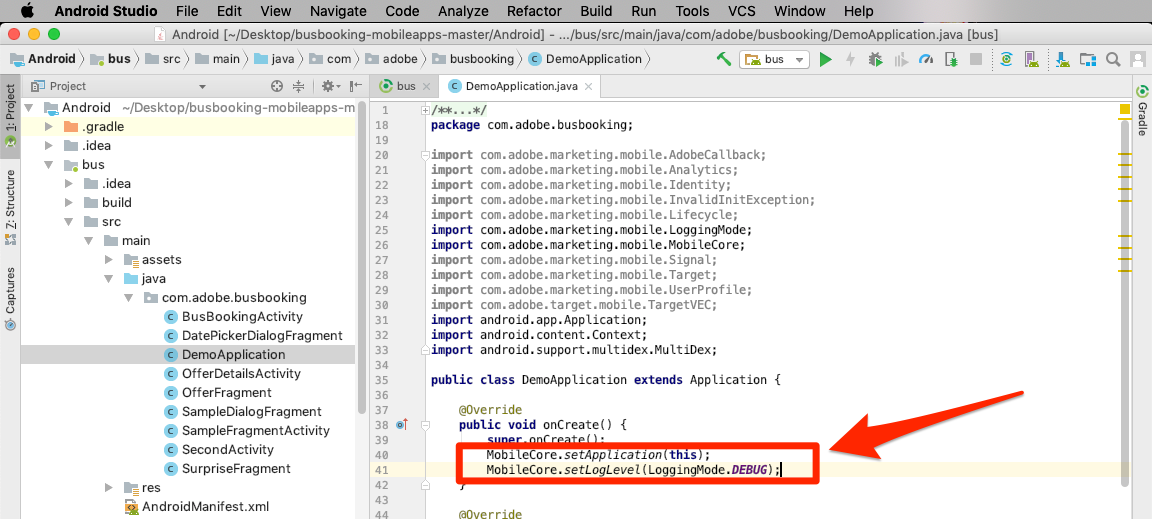
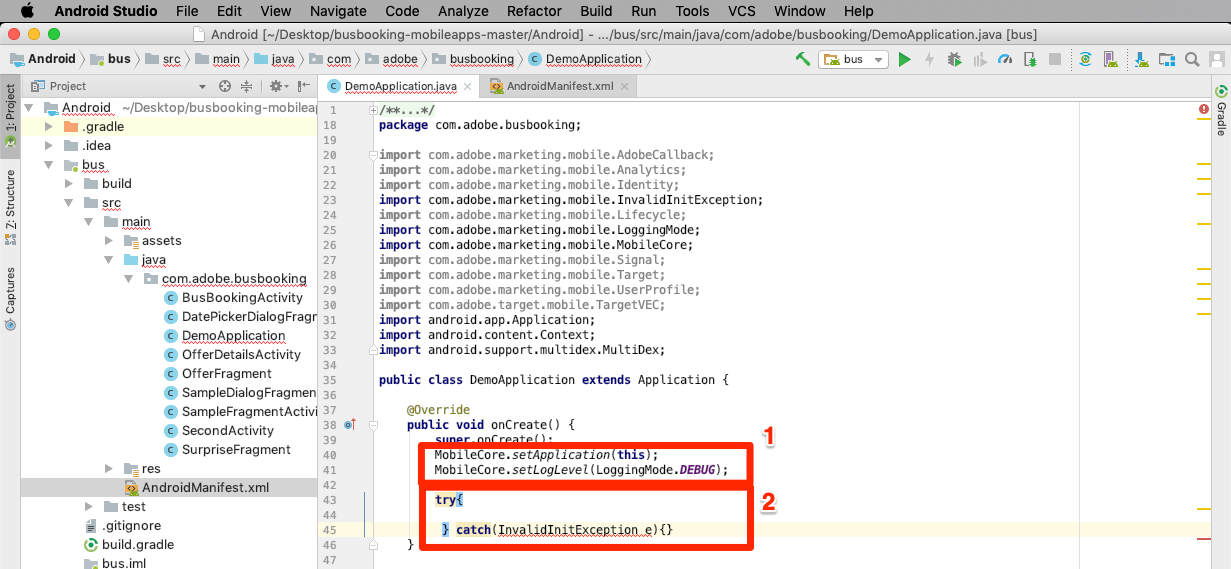
updates to install, warnings to updates, double note at top of target vec

Changed region(s): [[0.0, 0.0, 1.0, 1.0]]

diff --git a/help/mobile-android-implementation/launch-install-the-mobile-sdk.md b/help/mobile-android-implementation/launch-install-the-mobile-sdk.md
@@ -80,7 +80,7 @@ The Adobe Mobile SDK for Android uses Gradle to manage dependencies between its 
 
    ![Copy dependencies to your clipboard in the Launch interface](images/android/mobile-launch-install-pasteDependencies.png)
 
-## Update the AppDelegate
+## Update the Application
 
 Now it's time to update the App to import the SDK
 
@@ -95,7 +95,7 @@ Now it's time to update the App to import the SDK
 
    ![Copy the import statements to your clipboard](images/android/mobile-launch-install-copyImports.png)
 
-1. In Android Studio, paste these import statements *before* the existing imports in the `DemoApplication` file
+1. In Android Studio, paste these import statements *before* the existing imports in the `DemoApplication` file. Note that the Core extension includdes libraries to support callbacks, the identity service, lifecycle metrics, and console logging among other features.
 
     ![Paste the import statements into your DemoApplication file](images/android/mobile-launch-install-pasteImports.png)
 
@@ -103,7 +103,8 @@ Now it's time to update the App to import the SDK
 
    ![Copy the Core statements to your clipboard](images/android/mobile-launch-install-copyCore.png)
 
-1. In Android Studio, paste these Core statements into the `DemoApplication` file right after `super.onCreate()`:
+1. In Android Studio, paste these Core statements into the `DemoApplication` file right after `super.onCreate()`
+1. Remove the `//` comments before the `try` and `catch` lines
 
    ![Paste the Core statements into your DemoApplication file](images/android/mobile-launch-install-pasteCore.png)
 
@@ -111,7 +112,7 @@ Now it's time to update the App to import the SDK
 
    ![Copy the Extension statements to your clipboard](images/android/mobile-launch-install-copyExtensions.png)
 
-1. In Android Studio, paste these extension statements into the `DemoApplication` file just after the Core statements. Note that `MobileCore.configureWithAppID` contains the identifier of the Launch development environment of your property. This is important, as you will need to update this value when we are ready to deploy the app to the production environment.
+1. In Android Studio, paste these extension statements into the `try` section. Note that `MobileCore.configureWithAppID` contains the identifier of the Launch development environment of your property. This is important, as you will need to update this value when we are ready to deploy the app to the production environment.
 
    ![Paste the Extension statements into your DemoApplication file](images/android/mobile-launch-install-pasteExtensions.png)
 

diff --git a/help/mobile-android-implementation/audience-manager.md b/help/mobile-android-implementation/audience-manager.md
@@ -65,7 +65,7 @@ A configuration in the Adobe Analytics Admin Console is required to start forwar
 
     ![Select the SSF Menu](images/mobile-aam-selectSSFmenu.png)
 
-    >[!WARNING] As stated above, you will need to have administrator privileges to see this menu item.
+    >[!IMPORTANT] As stated above, you will need to have administrator privileges to see this menu item.
 
 1. Once on the Server-Side Forwarding page, read the info and check the box to **[!UICONTROL Enable Server-Side Forwarding]** for the report suite(s).
 
@@ -95,7 +95,7 @@ Since the Xcode console does not show the response to the beacons, you should us
 
     ![AA response - stuff object](images/mobile-aam-analyticsResponseSSF.png)
 
->[!WARNING] Beware the False "Success" - If there is a response, and everything seems to be working, make **sure** that you have that "stuff" object. If you don't, you may see a message in the response that says "status":"SUCCESS". As crazy as this sounds, this is actually proof that it is **NOT** working correctly. If you see this, it means that you have completed the step in Launch to forward to AAM, but that the forwarding in the Analytics Admin Console has not yet completed. In this case you need to verify that you have enabled SSF in the Analytics Admin Console. If you have, and it hasn't been 4 hours yet, be patient.
+>[!IMPORTANT] Beware the False "Success" - If there is a response, and everything seems to be working, make **sure** that you have that "stuff" object. If you don't, you may see a message in the response that says "status":"SUCCESS". As crazy as this sounds, this is actually proof that it is **NOT** working correctly. If you see this, it means that you have completed the step in Launch to forward to AAM, but that the forwarding in the Analytics Admin Console has not yet completed. In this case you need to verify that you have enabled SSF in the Analytics Admin Console. If you have, and it hasn't been 4 hours yet, be patient.
 
 ![AA response - false success](images/mobile-aam-unsuccessful-SSF.png)
 

diff --git a/help/mobile-android-implementation/publish.md b/help/mobile-android-implementation/publish.md
@@ -89,6 +89,6 @@ In real-life, once your QA team has signed off by reviewing the changes in the S
 Again, notice that the Production environment uses a Launch reference in the Core Configuration, as highlighted in the screenshot below.  If you use a different workspace for your Staging app, you would need to make sure that this workspace has all of the Pods and app updates that you made throughout this tutorial.
   <!-- ![Go to the Environments page and click to open the modal](images/android/mobile-publishing-getProductionCode.png)
 -->
->[!WARNING] The next time you make changes to your Launch configuration you will need to create a new Library in the Development environment. Remember, that adding and removing extensions will require updates to the app itself. Be careful about keeping your Launch environments and app code in sync with each other to avoid issues.
+>[!IMPORTANT] The next time you make changes to your Launch configuration you will need to create a new Library in the Development environment. Remember, that adding and removing extensions will require updates to the app itself. Be careful about keeping your Launch environments and app code in sync with each other to avoid issues.
 
 That’s it! You've completed the tutorial and published your first mobile property in Launch!

diff --git a/help/mobile-android-implementation/target-vec.md b/help/mobile-android-implementation/target-vec.md
@@ -16,7 +16,8 @@ The Visual Experience Composer (VEC) for Native Mobile Apps lets you create acti
 
 In the lesson [Add Extensions](launch-add-extensions.md), you added the Target VEC extension to your Launch property. In the lesson [Install the Mobile SDK](launch-install-the-mobile-sdk.md) you imported the extension into the sample application. Only a few minor updates are required to start setting up activities in Target's mobile visual experience composer!
 
->[!WARNING] The Visual Experience Composer for mobile apps is currently in Beta and may not be available in your Target account. You are encouraged to evaluate its capabilities, but we do not recommend launching real activities in your production app at this time.
+>[!IMPORTANT] The Visual Experience Composer for mobile apps is currently in Beta and may not be available in your Target account. You are encouraged to evaluate its capabilities, but we do not recommend launching real activities in your production app at this time.
+>
 >[!NOTE] Both the Target and Target VEC Launch extensions are required to use the Target VEC in your mobile application.
 
 ## Learning Objectives

diff --git a/help/mobile-android-implementation/launch-add-extensions.md b/help/mobile-android-implementation/launch-add-extensions.md
@@ -16,8 +16,6 @@ Since you will be implementing the Adobe solutions (e.g. Target, Analytics, and 
 
 >[!CAUTION] Adding and removing Extensions in mobile Launch properties requires you to update your app. This is different from web Launch properties, in which you can add or remove extensions at any time, without having to update your website.
 
->[!NOTE] Currently, Launch is used only to manage the extension configurations of the Adobe Experience Cloud solutions you will be implementing. Launch can not be used to create Data Elements or fire Rules associated with these solutions at this time.
-
 ## Prerequisites
 
 Your Launch user account needs permission to "Manage Extensions" in order to complete this lesson. If you are unable to complete any of these steps because the user interface options are not available to you, reach out to your Experience Cloud Administrator for access. For more information on Launch permissions, see [the documentation](https://docs.adobelaunch.com/launch-reference/administration/user-permissions).
